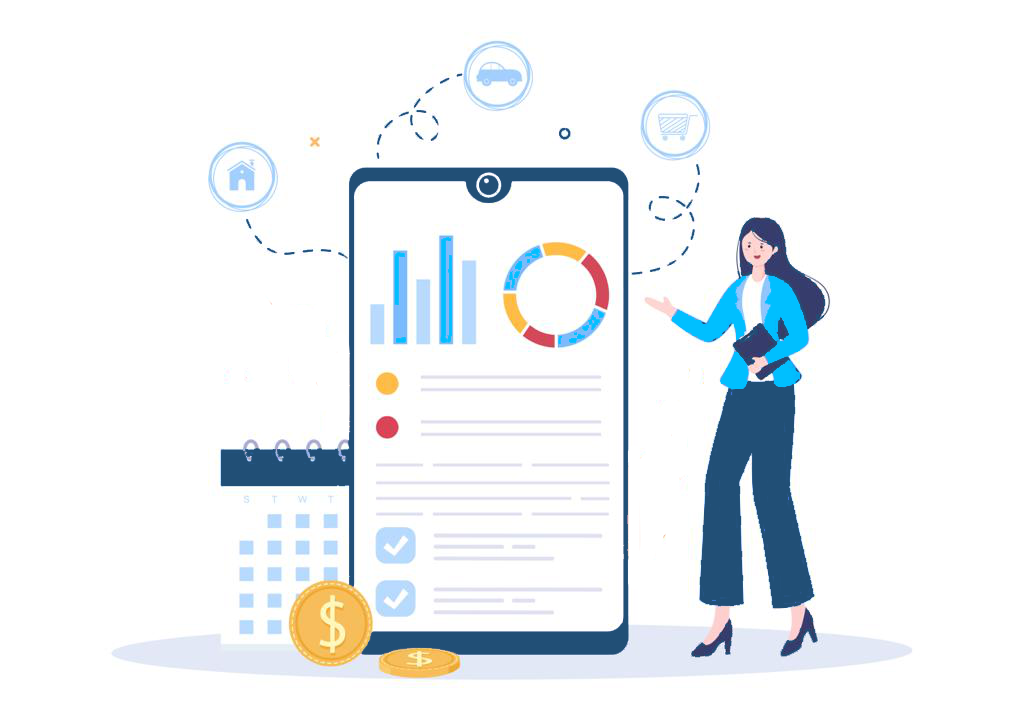
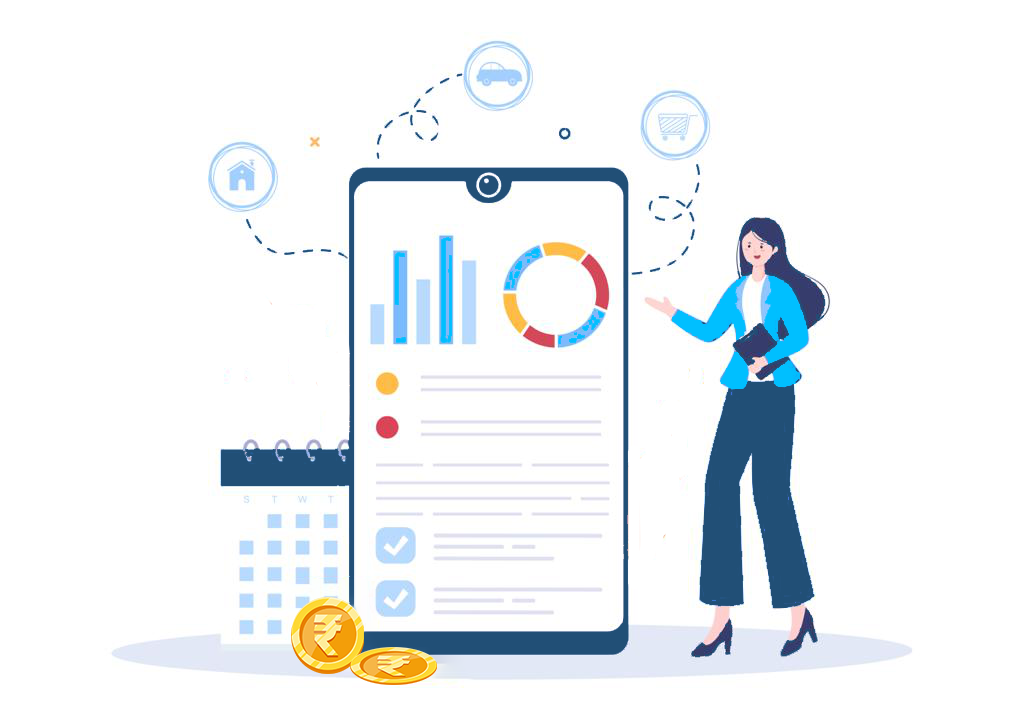
changed dollar to inr sign, fixed three line text in home hero.

Changed region(s): [[0.2812, 0.7933, 0.4688, 0.9764]]

diff --git a/src/app/shared-module/home-module/home-module.component.html b/src/app/shared-module/home-module/home-module.component.html
@@ -16,7 +16,7 @@
             </div>
         </div>
        
-        <div nz-col [nzLg]="{ span:12 , offset: 0}" [nzMd]="{ span: 24, offset: 0 }" [nzXs]="{ span: 24, offset: 0 }"
+        <div nz-col [nzLg]="{ span:12 , offset: 0}" [nzMd]="{ span: 12, offset: 0 }" [nzXs]="{ span: 24, offset: 0 }"
             class="text-center">
             <img src="assets/images/financial.png"  alt="Logo" class="sell-img" /> 
         </div>

diff --git a/src/app/shared-module/home-module/home-module.component.scss b/src/app/shared-module/home-module/home-module.component.scss
@@ -1244,7 +1244,14 @@
         }
     }
 }
-
+@media (max-width: 1900px) {
+    .sell-home {
+            h1 {
+                font-size: 45px;
+                line-height: 50px;
+            }
+        }
+}
 @media only screen and (max-width: 480px) { 
 
     .sell-home {
